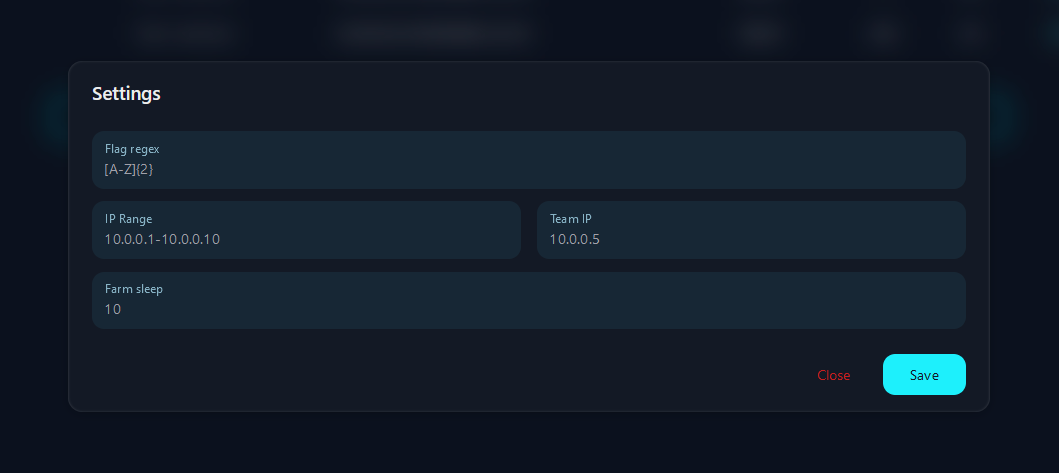
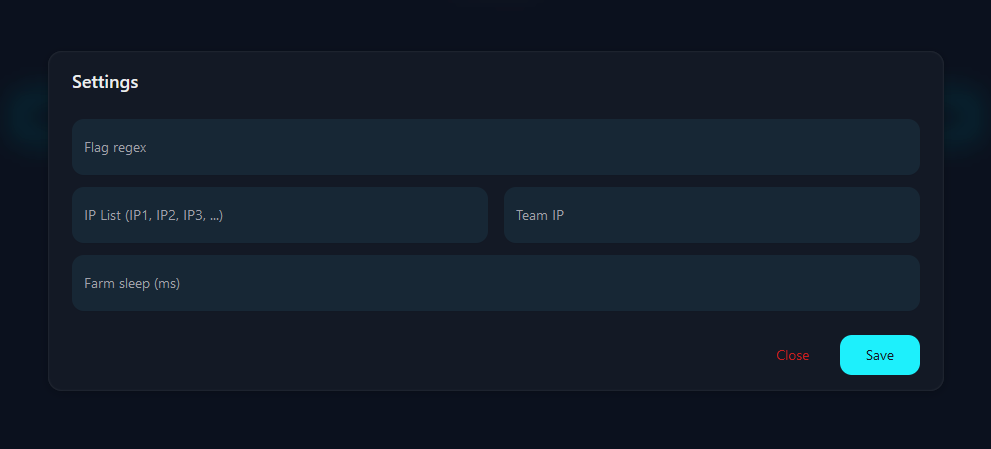
Fix settings doc

diff --git a/README.md b/README.md
@@ -44,7 +44,7 @@ After starting the service, it is essential to fill in all the fields of the Set
 
 The required fields are as follows:
 - `Flag regex` -> flag regexe, allows the automation of flag extraction from the output of the expoits
-- `IP Range` -> range of opponents' IPs, it is used to know to which address the exploits should be launched
+- `IP List` -> list of opponents' IPs, it is used to know to which address the exploits should be launched
 - `Team IP` -> IP of your team, allows you to avoid launching expoits against your own team so you don't waste time and avoid submitting your own flags
 - `Farm sleep` -> in milliseconds, time elapsing between the submit of the flags
 
